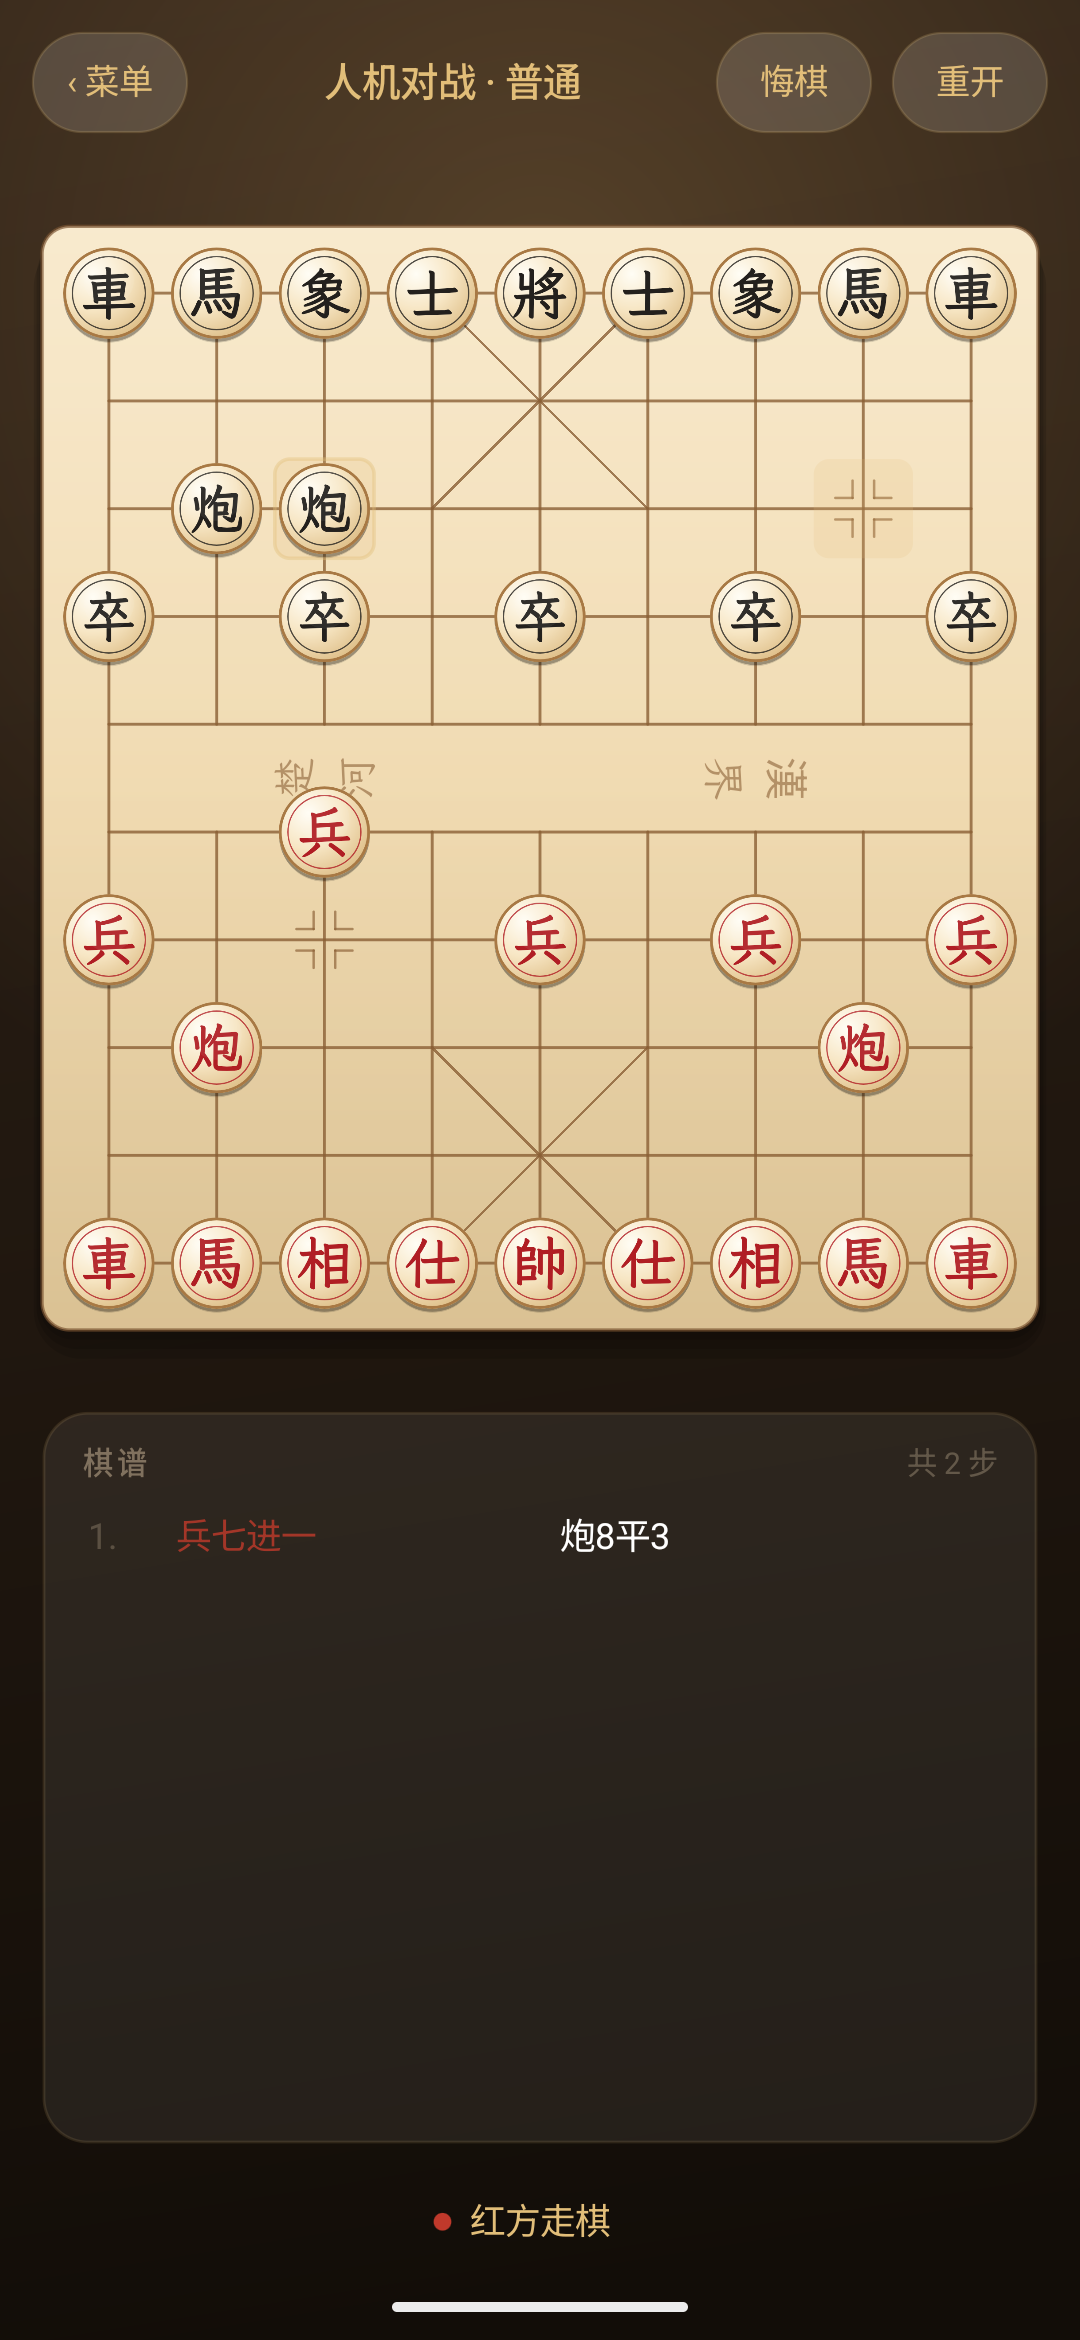
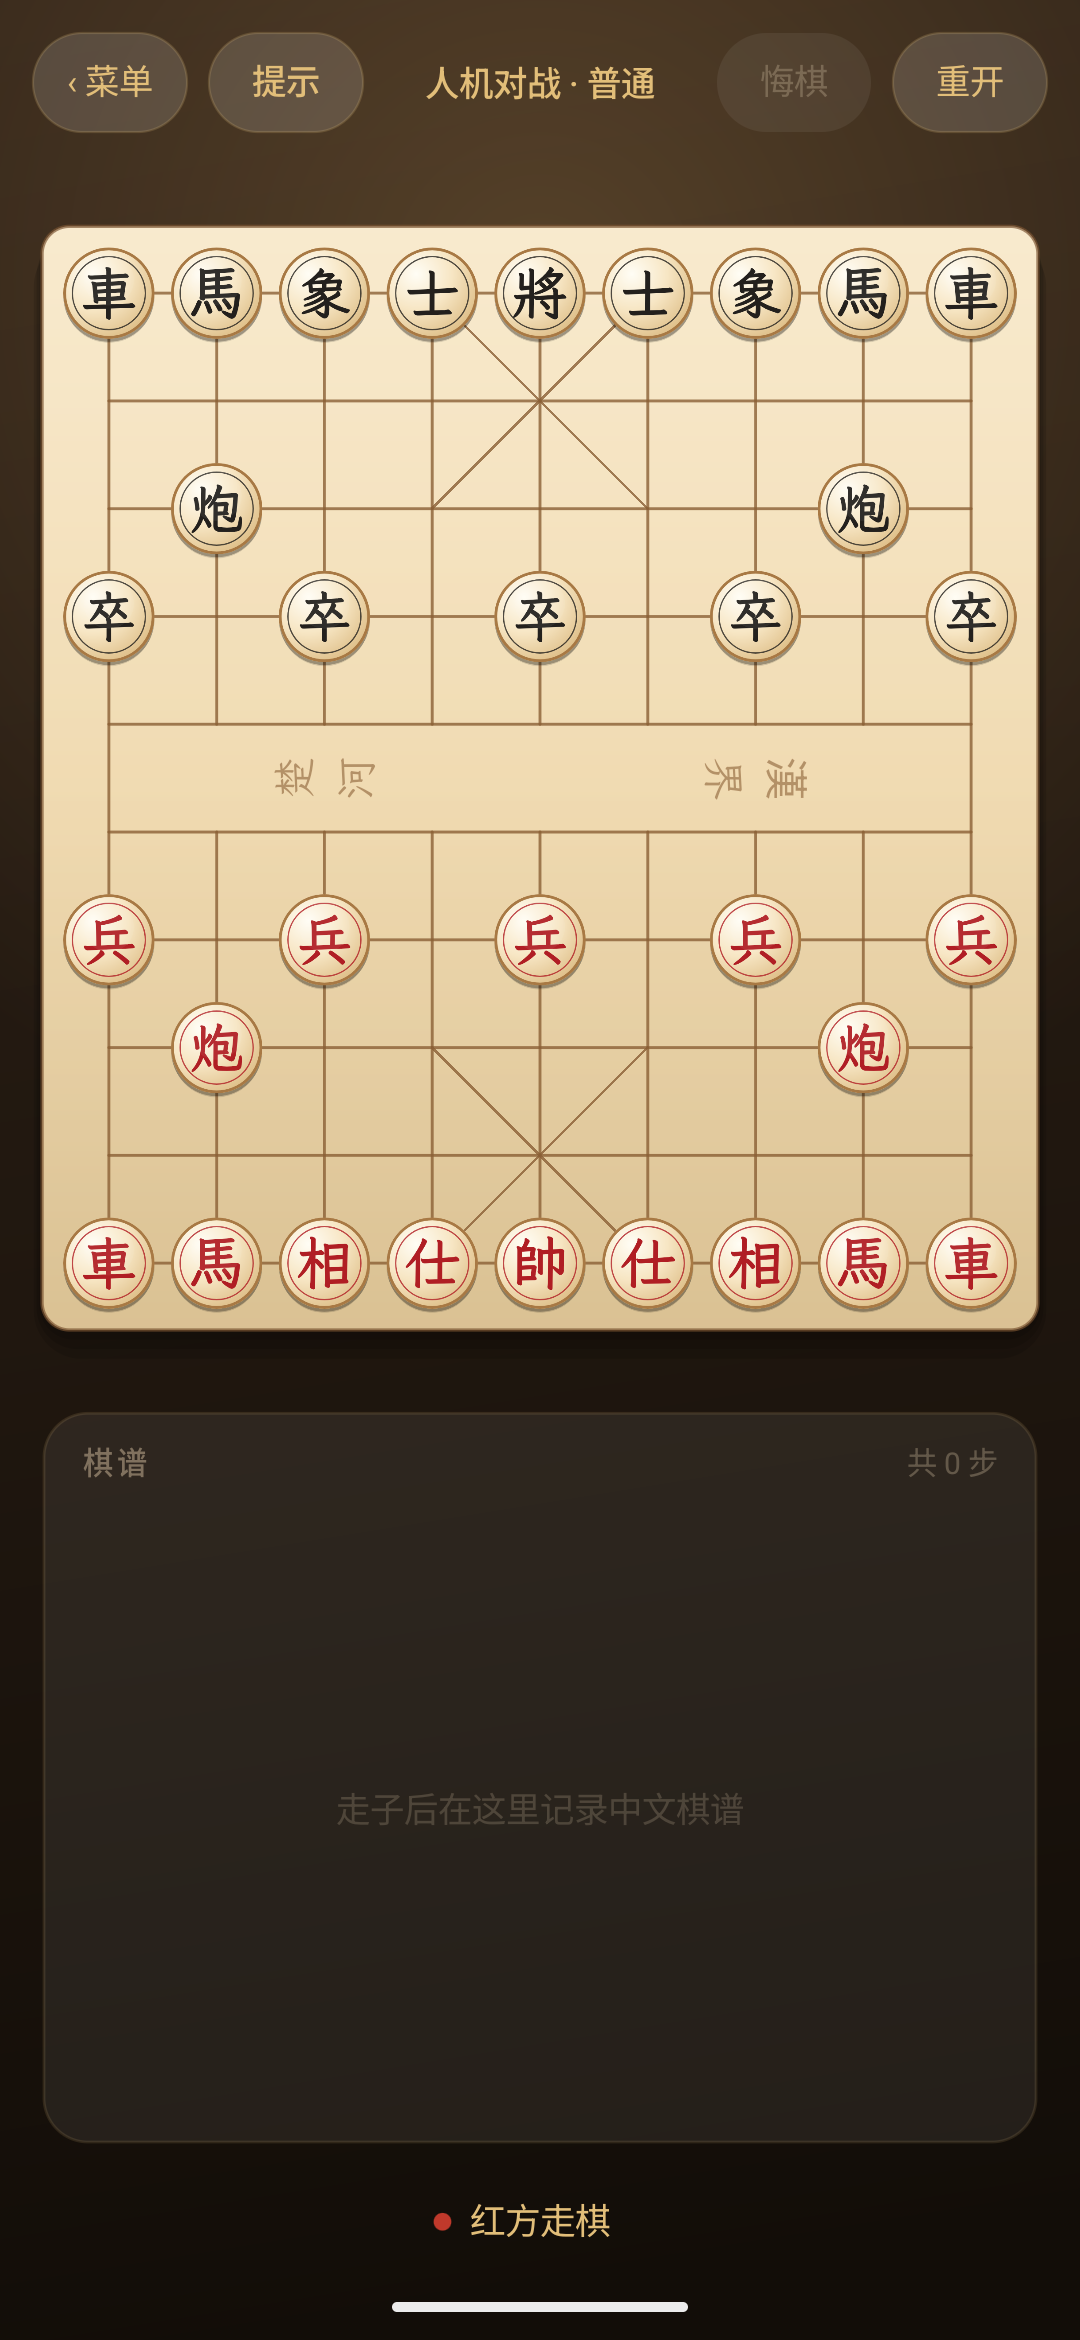
display: 人机对战新增「提示」
- 顶栏「菜单」右边加「提示」，固定普通档在后台算一步推荐着法
- 棋盘上画绿色起点圈和箭头，底部状态栏显示中文着法；再点一次收起
- 走子 / 悔棋 / 重开 / 回菜单都会清掉，过期结果按 generation + 步数丢弃
- 提示用独立 Ai 实例，避免和电脑走子线程共用置换表
- 版本升到 1.4（versionCode 5），重拍 menu / board，并新增 hint 截图

diff --git a/app/src/main/java/com/klara/xiangqi/ui/GameView.kt b/app/src/main/java/com/klara/xiangqi/ui/GameView.kt
@@ -5,6 +5,7 @@ import android.graphics.Bitmap
 import android.graphics.Canvas
 import android.graphics.LinearGradient
 import android.graphics.Paint
+import android.graphics.Path
 import android.graphics.RadialGradient
 import android.graphics.RectF
 import android.graphics.Shader
@@ -21,6 +22,7 @@ import com.klara.xiangqi.game.Difficulty
 import com.klara.xiangqi.game.Game
 import com.klara.xiangqi.game.Kind
 import com.klara.xiangqi.game.MoveGen
+import com.klara.xiangqi.game.MoveNamer
 import com.klara.xiangqi.game.Side
 import com.klara.xiangqi.game.Ai
 import com.klara.xiangqi.game.colOf
@@ -31,6 +33,7 @@ import com.klara.xiangqi.game.sideOf
 import kotlin.math.min
 import kotlin.math.round
 import kotlin.math.sin
+import kotlin.math.sqrt
 
 /**
  * 整个界面用一块 Canvas 绘制：主菜单 + 棋盘 + 对局信息，避免 Fragment/Compose 依赖。
@@ -43,6 +46,8 @@ class GameView(context: Context) : View(context) {
     // ---------- 状态 ----------
     private val game = Game()
     private val ai = Ai()
+    /** 提示用的独立引擎实例，避免和电脑落子线程共用置换表 */
+    private val hintAi = Ai()
     private var screen = Screen.MENU
     private var mode = Mode.AI
     private var difficulty = Difficulty.NORMAL
@@ -58,6 +63,12 @@ class GameView(context: Context) : View(context) {
     private var downY = 0f
 
     private var thinking = false
+    /** 正在后台计算提示着法 */
+    private var hintThinking = false
+    /** 提示的着法（-1 表示没有提示） */
+    private var hintMove = -1
+    /** 提示着法的中文记谱，显示在底部状态栏 */
+    private var hintName = ""
     private var animating = false
     private var animFrom = -1
     private var animTo = -1
@@ -111,6 +122,7 @@ class GameView(context: Context) : View(context) {
     }
     private val tmpRect = RectF()
     private val tmpRect2 = RectF()
+    private val hintPath = Path()
 
     private var bgShader: Shader? = null
     private var panelShader: Shader? = null
@@ -123,6 +135,7 @@ class GameView(context: Context) : View(context) {
     private val backRect = RectF()
     private val undoRect = RectF()
     private val restartRect = RectF()
+    private val hintRect = RectF()
     private val confirmCancelRect = RectF()
     private val confirmOkRect = RectF()
     private val againRect = RectF()
@@ -295,6 +308,10 @@ class GameView(context: Context) : View(context) {
                     invalidate()
                     return true
                 }
+                if (mode == Mode.AI && hintRect.contains(x, y)) {
+                    startHint()
+                    return true
+                }
                 if (logVisible) {
                     // 弹层打开时，点面板以外的地方收起
                     if (!logCardRect.contains(x, y)) {
@@ -445,6 +462,9 @@ class GameView(context: Context) : View(context) {
     private fun goMenu() {
         generation++
         thinking = false
+        hintThinking = false
+        hintMove = -1
+        hintName = ""
         logVisible = false
         confirmExit = false
         screen = Screen.MENU
@@ -465,6 +485,9 @@ class GameView(context: Context) : View(context) {
         dragging = false
         pressing = false
         thinking = false
+        hintThinking = false
+        hintMove = -1
+        hintName = ""
         logVisible = false
         confirmExit = false
         animating = false
@@ -480,6 +503,10 @@ class GameView(context: Context) : View(context) {
         if (!game.play(from, to)) return
         selected = -1
         targets = IntArray(0)
+        // 走子后提示就过期了
+        hintThinking = false
+        hintMove = -1
+        hintName = ""
         startAnimation(from, to)
         haptic(HapticFeedbackConstants.VIRTUAL_KEY)
         if (game.finished) {
@@ -503,6 +530,9 @@ class GameView(context: Context) : View(context) {
         if (thinking) return
         generation++
         thinking = false
+        hintThinking = false
+        hintMove = -1
+        hintName = ""
         // 人机模式下退回到自己该走棋的局面
         val steps = if (mode == Mode.AI && game.plyCount >= 2) 2 else 1
         repeat(steps) {
@@ -514,6 +544,37 @@ class GameView(context: Context) : View(context) {
         finishedAt = 0L
         haptic(HapticFeedbackConstants.KEYBOARD_TAP)
         invalidate()
+    }
+
+    /** 人机模式：让引擎给出当前局面的推荐着法，只标在棋盘上，不替玩家落子。再点一次收起。 */
+    private fun startHint() {
+        if (mode != Mode.AI || thinking || hintThinking || game.finished) return
+        if (game.sideToMove != Side.RED) return
+        if (hintMove >= 0) {
+            hintMove = -1
+            hintName = ""
+            invalidate()
+            return
+        }
+        hintThinking = true
+        val gen = generation
+        val ply = game.plyCount
+        val snapshot = game.board.copy()
+        invalidate()
+        Thread {
+            val move = hintAi.chooseMove(snapshot, Difficulty.NORMAL)
+            val name = if (move != 0) MoveNamer.name(snapshot, move) else ""
+            post {
+                if (gen != generation) return@post
+                hintThinking = false
+                if (move != 0 && game.plyCount == ply && !game.finished && game.sideToMove == Side.RED) {
+                    hintMove = move
+                    hintName = name
+                    haptic(HapticFeedbackConstants.KEYBOARD_TAP)
+                }
+                invalidate()
+            }
+        }.apply { isDaemon = true }.start()
     }
 
     private fun startThinking() {
@@ -765,6 +826,7 @@ class GameView(context: Context) : View(context) {
         drawTopBar(canvas)
         drawBoard(canvas)
         drawPieces(canvas)
+        drawHint(canvas)
         drawCapturedRows(canvas)
         drawLogPanel(canvas)
         drawBottomBar(canvas)
@@ -801,7 +863,7 @@ class GameView(context: Context) : View(context) {
         textPaint.typeface = SANS_MEDIUM
         textPaint.textSize = dp(14f)
         val fm = textPaint.fontMetrics
-        // 双人模式在「菜单」右边多一个棋谱开关
+        // 「菜单」右边：人机是「提示」，双人是「棋谱」开关；两边的标题都从按钮右边开始居中
         var titleLeft = backRect.right
         if (mode == Mode.PVP) {
             logToggleRect.set(
@@ -810,6 +872,16 @@ class GameView(context: Context) : View(context) {
             )
             drawPill(canvas, logToggleRect, if (logVisible) "收起" else "棋谱", true)
             titleLeft = logToggleRect.right
+        } else {
+            hintRect.set(
+                backRect.right + dp(8f), barTop,
+                backRect.right + dp(8f) + dp(56f), barTop + barH
+            )
+            // 电脑思考、计算提示、棋局结束、轮黑走时都不能点
+            val hintEnabled = !thinking && !hintThinking && !game.finished &&
+                game.sideToMove == Side.RED && !confirmExit
+            drawPill(canvas, hintRect, "提示", hintEnabled)
+            titleLeft = hintRect.right
         }
         val titleCx = (titleLeft + undoRect.left) / 2f
         canvas.drawText(title, titleCx, barTop + barH / 2f - (fm.ascent + fm.descent) / 2f, textPaint)
@@ -1050,6 +1122,53 @@ class GameView(context: Context) : View(context) {
         }
     }
 
+    /**
+     * 提示着法：起点画绿圈，再用箭头指向目标格（沿用 1.1 的样式，颜色收进 `Theme`）。
+     * 画在棋子之上，箭头才不会被目标格上的子挡住。
+     */
+    private fun drawHint(canvas: Canvas) {
+        if (hintMove < 0) return
+        val from = MoveGen.fromOf(hintMove)
+        val to = MoveGen.toOf(hintMove)
+        val fx = cx(colOf(from))
+        val fy = cy(rowOf(from))
+        val tx = cx(colOf(to))
+        val ty = cy(rowOf(to))
+
+        paint.style = Paint.Style.FILL
+        paint.alpha = 255
+
+        linePaint.color = C_HINT
+        linePaint.strokeWidth = dp(2.6f)
+        canvas.drawCircle(fx, fy, cell * 0.48f, linePaint)
+
+        val dx = tx - fx
+        val dy = ty - fy
+        val len = sqrt(dx * dx + dy * dy)
+        if (len < 1f) return
+        val ux = dx / len
+        val uy = dy / len
+
+        val head = cell * 0.30f
+        val sx = fx + ux * cell * 0.54f
+        val sy = fy + uy * cell * 0.54f
+        val ex = tx - ux * cell * 0.54f
+        val ey = ty - uy * cell * 0.54f
+
+        linePaint.strokeWidth = cell * 0.115f
+        canvas.drawLine(sx, sy, ex - ux * head * 0.7f, ey - uy * head * 0.7f, linePaint)
+
+        val px = -uy
+        val py = ux
+        hintPath.reset()
+        hintPath.moveTo(ex, ey)
+        hintPath.lineTo(ex - ux * head + px * head * 0.72f, ey - uy * head + py * head * 0.72f)
+        hintPath.lineTo(ex - ux * head - px * head * 0.72f, ey - uy * head - py * head * 0.72f)
+        hintPath.close()
+        paint.color = C_HINT
+        canvas.drawPath(hintPath, paint)
+    }
+
     private fun drawPieceAt(canvas: Canvas, piece: Int, x: Float, y: Float, size: Float) {
         val bmp = pieceBitmaps[piece] ?: return
         val h = size / 2f
@@ -1257,6 +1376,9 @@ class GameView(context: Context) : View(context) {
                 else -> "黑方胜" to 0xFF9FB3C8.toInt()
             }
             thinking -> "电脑思考中…" to C_GOLD
+            hintThinking -> "正在计算提示…" to C_GOLD
+            hintName.isNotEmpty() && game.inCheck -> "将军！提示：$hintName" to C_HINT_TEXT
+            hintName.isNotEmpty() -> "提示：$hintName" to C_HINT_TEXT
             game.inCheck -> "将军！${Side.name(turn)}应将" to 0xFFD96A5A.toInt()
             else -> "${Side.name(turn)}走棋" to C_GOLD
         }

diff --git a/app/src/main/java/com/klara/xiangqi/ui/Theme.kt b/app/src/main/java/com/klara/xiangqi/ui/Theme.kt
@@ -17,6 +17,10 @@ internal val C_GOLD = 0xFFE2BE79.toInt()
 internal val C_RED = 0xFFC0392B.toInt()
 internal val C_TEXT_DIM = 0xFFB7A489.toInt()
 
+/** 提示：棋盘上的起点圈 / 箭头，以及状态栏的提示文字 */
+internal val C_HINT = 0xCC2E9E5B.toInt()
+internal val C_HINT_TEXT = 0xFF7ED69C.toInt()
+
 /** 正文用的常规无衬线 */
 internal val SANS = Typeface.create("sans-serif", Typeface.NORMAL)
 

diff --git a/CHANGELOG.md b/CHANGELOG.md
@@ -5,10 +5,25 @@
 
 版本号写在 `app/build.gradle.kts`（`versionCode` / `versionName`），安装包按版本号归档在 `dist/`。
 
+- **1.4**（versionCode 5，2026-11-02，938 132 B，构建包待验收）：人机对战新增「提示」
 - **1.3**（versionCode 4，2026-10-30，937 128 B）：全屏 + 顶部留白封顶 80 px（无孔机型贴顶）；「漢界」字序修正
 - **1.2**（versionCode 3，2026-10-28，937 008 B）：全屏 + 双方吃子；双人棋盘居中 + 棋谱弹层；楚河汉界单字旋转；图标补全
 - **1.1**（versionCode 2，2026-10-28，834 208 B）：楷体 / 返回键修复 / 顶栏悔棋 / 棋子按墨迹归一化
 - **1.0**（versionCode 1，676 030 B）：首版，源码未保留，包从手机备份提取
+
+## [1.4] - 2026-11-02
+
+### 新增
+
+- **人机对战「提示」**：顶栏「菜单」右边新增「提示」按钮，点一下让引擎算一步推荐着法，
+  棋盘上画绿色起点圈 + 指向目标格的箭头，底部状态栏同时显示中文着法（如「提示：馬八进七」）。
+  只做标记，不替玩家落子。
+  - 引擎固定用「普通」档（约 0.1～0.9 s），单独一个 `Ai` 实例，不和电脑走子线程共用置换表。
+  - 再点一次「提示」收起；走子 / 悔棋 / 重开 / 回菜单都会自动清掉，过期的计算结果也会丢弃
+    （按步数和 `generation` 双重校验），不会把上一局的箭头留在棋盘上。
+  - 电脑思考、棋局结束时按钮置灰，点了也不响应。
+  - 箭头和起点圈沿用 1.1 的样式（绿色，与金色的上一步高亮区分），颜色收进 `Theme.kt` 的 `C_HINT`。
+- 人机顶栏因此变成「菜单 / 提示 / 标题 / 悔棋 / 重开」，左右两组按钮等宽，标题正好落在屏幕正中。
 
 ## [1.3] - 2026-10-30
 
